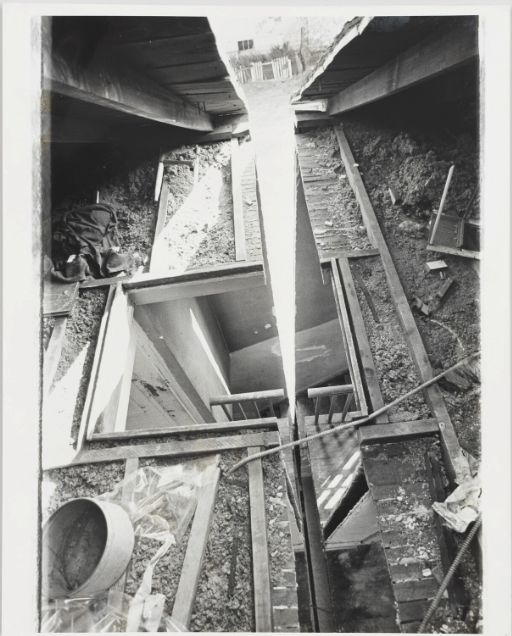
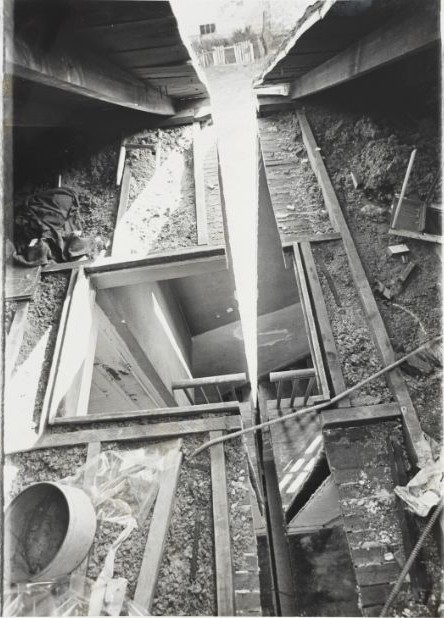
Second round of revisions
- 106 table: #25 off; Walls Paper and Flash Art at the back, Splitting in front, drawn as books with page blocks
- Wall labels at the right near the bottom corner, with the real text set small; one label per series
- 105-S: Laguna Niguel framed like its neighbours; 106-E prints cropped to the print, clusters closer
- 104: two compositions with one label each; 103-W: the two #64 photographs stacked
- #1 closer, in a thin frame; numbers off the pavilion, courtyard and table links; Harris plate in the plan corner

Claude-Session: https://claude.ai/code/session_01Gzv3RVgYn5MbEVnSCDgZo5

diff --git a/anarchitecture/index.html b/anarchitecture/index.html
@@ -79,6 +79,10 @@ main{min-height:100%;display:flex;align-items:center;justify-content:center;padd
 .el .mat{fill:#fff}
 .el .lbl{fill:#fff}
 .el .lbn{fill:var(--grey)}
+.el .lt{fill:#666;font-family:Arial,Helvetica,sans-serif;pointer-events:none}
+.el .lxa{fill:#222}
+.el .lxt{font-style:italic;fill:#333}
+.el .lxh{fill:#999}
 .el .bar{fill:var(--grey)}
 .el .lab{fill:none;stroke:var(--grey);stroke-width:.75px;vector-effect:non-scaling-stroke}
 .el .glass{fill:rgba(150,200,190,.22);stroke:var(--black);stroke-width:1px;vector-effect:non-scaling-stroke}
@@ -137,7 +141,7 @@ body.open .corner{display:none}
         <rect class="z" x="872" y="625" width="14" height="6"/>
         <!-- 103: Flash Art case by the opening from 104; Harris sculptures off the west wall; Girouard textile (proposal) -->
         <rect class="z" x="538" y="726" width="27" height="10"/>
-        <path class="z" d="M305 755 V800 H323 Z"/>
+        <path class="z" d="M305 726 V771 L323 726 Z"/>
         <path class="z" d="M305 842 H323 M305 862 H323"/>
         <rect class="z d" x="495" y="915" width="54" height="45"/>
         <!-- 102: the passage, on the diagonal, with the route from 103 to reception kept clear on the east -->
@@ -168,14 +172,14 @@ body.open .corner{display:none}
      no picture gives the proportion). Pictures live in img/<number>.jpg.
      views = what the object view offers, in order.
    ===================================================================== */
-const IMG={"1":[1600,1271],"10":[788,636],"11":[512,636],"12":[512,636],"13":[792,642],"15":[1406,1050],"16":[1024,907],"17":[792,640],"18":[796,646],"19":[512,636],"2":[922,1024],"20":[516,642],"21":[1411,1168],"22":[1007,862],"23":[656,469],"24":[1500,1000],"26":[1600,532],"27":[1600,1294],"28":[843,685],"29":[1600,1288],"3":[927,1024],"30":[843,685],"31":[1090,1040],"32":[1600,1280],"33":[1008,806],"34":[1600,1280],"35":[1600,1297],"36":[755,470],"37":[1600,1076],"38":[1600,992],"39":[728,419],"4":[484,640],"40":[238,222],"43":[1600,1077],"44":[1335,1080],"45":[1600,1040],"46":[899,1080],"47":[929,1080],"48":[917,1080],"49":[954,1080],"5":[790,636],"50":[1060,1080],"51":[985,1080],"52":[951,1080],"53":[921,1080],"54":[970,1080],"55":[1600,976],"56":[1600,617],"57":[1600,1512],"58":[1080,850],"59":[1496,1166],"6":[876,636],"60":[1600,1066],"61":[1600,1066],"62":[843,1195],"63":[1600,1240],"64-2":[1500,1105],"64":[1500,1154],"65":[1600,1275],"7":[510,636],"8":[786,642],"9":[834,638]};
+const IMG={"1":[1600,1271],"10":[748,615],"11":[444,618],"12":[339,490],"13":[781,642],"15":[1406,1050],"16":[1024,907],"17":[792,640],"18":[796,646],"19":[512,636],"2":[922,1024],"20":[516,642],"21":[1411,1168],"22":[1007,862],"23":[656,469],"24":[1500,1000],"26":[1600,532],"27":[1600,1294],"28":[843,685],"29":[1600,1288],"3":[927,1024],"30":[843,685],"31":[1090,1040],"32":[1600,1280],"33":[1008,806],"34":[1600,1280],"35":[1600,1297],"36":[755,470],"37":[1457,931],"38":[1600,992],"39":[728,419],"4":[449,613],"40":[238,222],"43":[1600,1077],"44":[1335,1080],"45":[1600,1040],"46":[899,1080],"47":[929,1080],"48":[917,1080],"49":[954,1080],"5":[759,616],"50":[1060,1080],"51":[985,1080],"52":[951,1080],"53":[921,1080],"54":[970,1080],"55":[1600,976],"56":[1600,617],"57":[1600,1512],"58":[1080,850],"59":[1496,1166],"6":[853,614],"60":[1600,1066],"61":[1600,1066],"62":[843,1195],"63":[1600,1240],"64-2":[1500,1105],"64":[1500,1154],"65":[1600,1275],"7":[426,619],"8":[786,571],"9":[733,613]};
 const GMC="Gordon Matta-Clark",DIV="John Divola",BAL="Lewis Baltz",ABL="Adrian Blackwell",HAM="David Hammons",ASH="Michael Asher",HAR="Suzanne Harris",HOG="Martin Hogue";
 const BENTON="Benton Museum of Art at Pomona College";
 const SPL=n=>({a:GMC,t:"Splitting"+(n?" "+n:""),d:"1974",m:"Documentation of the action “Splitting,” New Jersey, 1974",s:"10 × 8 1/8 in. (25.4 × 20.7 cm)",L:10,F:[17,14]});
 const DAY=n=>({a:GMC,t:"Day’s End, Pier 52."+n,d:"1975, printed 1977",m:"Gelatin silver print. Documentation of the action “Day’s End,” New York, 1975",s:n===2?"Sheet 10 × 8 in. (25.4 × 20.3 cm)":"Sheet 8 × 10 in. (20.3 × 25.4 cm)",L:10,F:[17,14]});
 const EV=(i,name)=>({a:ABL,t:`${name} Space (#${i} from Evicted May 1, 2000 [9 Hanna Ave.])`,d:"2001",s:"60 × 75 cm",L:29.5,F:[35,30]});
 const C={
-  1:{a:GMC,t:"Note Card",d:"c. 1973–74",L:6,F:[12,10],views:[{cap:"The card, at reading scale"}]},
+  1:{a:GMC,t:"Note Card",d:"c. 1973–74",L:6,F:[12,10],frame:"thin",views:[{cap:"The card, at reading scale"}]},
   2:{a:GMC,t:"North West",d:"1975",m:"Cibachrome print mounted on board",s:"17 × 15 1/2 in. (43.2 × 39.4 cm)",note:"Signed, titled and dated on the reverse",L:17,F:[22,20.5]},
   3:{a:GMC,t:"South East",d:"1975",m:"Cibachrome print mounted on board",s:"17 × 15 1/2 in. (43.2 × 39.4 cm)",note:"Signed and titled on the reverse",L:17,F:[22,20.5]},
   4:SPL(""),5:SPL(1),6:SPL(2),7:SPL(3),8:SPL(4),9:SPL(5),10:SPL(6),11:SPL(7),12:SPL(8),13:SPL(9),
@@ -188,7 +192,6 @@ const C={
   22:{a:GMC,t:"Sliced Brick Building",d:"1977",s:"7 × 9 in.; 12 1/2 × 14 3/4 in. framed",L:9,F:[14.75,12.5],views:[{cap:"With the sheet edges"}]},
   23:{a:GMC,t:"Walls Paper",d:"1973",m:"Artist’s book, offset lithograph on paper",s:"10 1/4 × 8 × 3/8 in.",note:"Handling copy, open",L:14},
   24:{a:"Anarchitecture group",t:"Flash Art, the 1974 exhibition",d:"1974",m:"Magazine",note:"Handling copy, on a sloped rest, open to the group spread",L:15},
-  25:{a:"Liza Béar",t:"Gordon Matta-Clark: Splitting the Humphrey Street Building",d:"1974",m:"Interview, Avalanche no. 10, December 1974, pp. 34–37. Reading reproduction",note:"Handling copy, open flat",W:15,H:9.7},
   26:{a:GMC,t:"Splitting",m:"Artist’s book",s:"17.8 × 28.2 cm",note:"Handling copy, open to an interior spread",L:14},
   27:{a:DIV,t:"Zuma #3",d:"1977; published 1982",s:"14 7/16 × 17 7/8 in. (36.7 × 45.4 cm)",F:[24,20],L:17.875},
   28:{a:DIV,t:"Zuma #8",d:"1977; printed 1977",s:"9 3/4 × 12 1/16 in. (24.7 × 30.6 cm)",F:[20,16],L:12.06},
@@ -200,7 +203,7 @@ const C={
   34:{a:DIV,t:"Zuma #74",d:"1977; printed 1978/79",s:"9 11/16 × 12 in. (24.6 × 30.5 cm)",F:[20,16],L:12},
   35:{a:DIV,t:"Zuma #14",d:"1977; printed 1978/79",s:"14 7/16 × 17 7/8 in. (36.7 × 45.4 cm)",note:"Date from research, to confirm",F:[24,20],L:17.875},
   36:{a:BAL,t:"Greenbrae 1968",d:"1968",m:"Gelatin silver print",s:"5 1/2 × 8 3/8 in. (13.9 × 21.2 cm)",cr:BENTON,note:"To confirm against Benton records",L:8.375,F:[14,11]},
-  37:{a:BAL,t:"Laguna Niguel 1970",d:"1970",s:"5 13/16 × 21 11/16 in. (14.7 × 55.1 cm)",cr:BENTON,note:"To confirm against Benton records",W:21.6875,H:5.8125,F:[28,12]},
+  37:{a:BAL,t:"Laguna Niguel 1970",d:"1970",s:"5 13/16 × 21 11/16 in. (14.7 × 55.1 cm)",cr:BENTON,note:"The checklist size does not match this picture, which is a standard print. To confirm against Benton records",L:8.5,F:[14,11]},
   38:{a:BAL,t:"Irvine Ranch 1968",d:"1968",s:"5 1/4 × 8 9/16 in. (13.3 × 21.7 cm)",cr:BENTON,note:"To confirm against Benton records",L:8.5625,F:[14,11]},
   39:{a:BAL,t:"Laguna Beach 1968",d:"1968",cr:BENTON,note:"To confirm against Benton records",L:8.5,F:[14,11]},
   40:{a:GMC,t:"Reality Properties: Fake Estates, Little Alley Block 2497, Lot 42",L:56,F:[64,60],views:[{cap:"The complete work"},{cap:"Details",ph:1}]},
@@ -220,7 +223,8 @@ const C={
   61:{a:HAM,t:"Day’s End",d:"2014–21",m:"Photograph",note:"The sculpture: 52 × 325 × 65 ft. (15.9 × 99 × 20 m)",L:30,F:[36,26]},
   62:{fr:"none",a:HAR,t:"Untitled",d:"1976",m:"Two right triangles, glass",s:"Each 72 × 24 × 1/2 in. (182.9 × 61 × 1.3 cm)",note:"Its own zone, out into the room",W:60,H:72},
   63:{fr:"none",a:HAR,t:"Untitled",d:"1975",s:"60 × 24 × 54 in.; 5 × 2 ft right triangle",note:"Its own zone, out into the room",W:60,H:24},
-  64:{a:"Mimmo Capone",t:"Photograph of Suzanne Harris, Between Force & Form",d:"1978",L:20,F:[26,22],views:[{img:"64"},{img:"64-2"}]},
+  64:{a:"Mimmo Capone",t:"Photograph of Suzanne Harris, Between Force & Form",d:"1978",L:20,F:[26,22]},
+  "64b":{a:"Mimmo Capone",t:"Photograph of Suzanne Harris, Between Force & Form",d:"1978",img:"64-2",L:20,F:[26,22]},
   65:{a:"Richard Wilson",t:"20:50",d:"1987",m:"Photograph of the installation",L:40},
   66:{a:"Rirkrit Tiravanija",t:"Untitled (free/still)",d:"1992/1995/2007/2011–",m:"Refrigerator, table, chairs, wood, drywall, food and other materials",s:"Dimensions variable",cr:"MoMA PS1",W:40,H:28},
   67:{a:GMC,t:"Splitting",d:"1974",m:"Super 8mm film on HD video, black and white and color, silent, 10:50",video:"video/67.mp4",W:32,H:18,views:[{cap:"Film"}]},
@@ -241,6 +245,8 @@ const C={
   "i-vis":{intro:1,t:"Introductory visual",note:"To be selected",W:66,H:50},
   "i-text":{intro:1,fr:"none",t:"Introduction",note:"Text to come",W:40,H:54}
 };
+/* the Splitting prints are shown cropped to the print; the longest side, in inches, measured against the 10 in. sheet */
+Object.entries({4:9.58,5:9.61,6:9.74,7:9.73,8:10,9:8.79,10:9.49,11:9.72,12:7.7,13:9.86}).forEach(([k,l])=>C[k].L=l);
 for(const k in C)C[k].k=k;
 
 /* size in inches, drawn to scale: the longest side from the checklist, the proportion from the picture */
@@ -251,12 +257,12 @@ function osz(k){const c=C[k],[w,h]=sz(k);if(c.fr==="none")return [w,h];
   if(c.F){const a=Math.max(...c.F),b=Math.min(...c.F);return w>=h?[a,b]:[b,a];}
   const m=Math.min(4,Math.max(2,.2*Math.max(w,h)))+1;return [w+2*m,h+2*m];}
 const pic=k=>{const c=C[k]||{},key=c.img||k;return IMG[key]?`img/${key}.jpg`:null;};
-const num=k=>C[k].prop?"Proposal":C[k].intro?"":k==="24b"?"24, second copy":String(k);
+const num=k=>C[k].prop?"Proposal":C[k].intro?"":k==="24b"?"24, second copy":k==="64b"?"64":String(k);
 
 /* layout helpers. Every item: k, x = inches from the left end of the wall, b = height of its
    bottom above the floor, w and h. Left and right are for someone facing the wall. */
 function at(k,cx,cy,o={}){const [w,h]=osz(k);return {k,x:cx-w/2,b:cy-h/2,w,h,...o};}
-function row(keys,{x0,gap,cy,base,cap,nolab,grp}){let x=x0;return keys.map(k=>{const [w,h]=osz(k);const it={k,x,w,h,b:base!=null?base:cy-h/2,cap,nolab,grp};x+=w+gap;return it;});}
+function row(keys,{x0,gap,cy,base,grp}){let x=x0;return keys.map(k=>{const [w,h]=osz(k);const it={k,x,w,h,b:base!=null?base:cy-h/2,grp};x+=w+gap;return it;});}
 const rowW=(keys,gap)=>keys.reduce((a,k)=>a+osz(k)[0],0)+gap*(keys.length-1);
 let GRP=0;
 function grid(rows,{cx,x0,right,cy,gap}){const grp="g"+(++GRP);
@@ -269,18 +275,18 @@ function grid(rows,{cx,x0,right,cy,gap}){const grp="g"+(++GRP);
 const LAB=(x,b,o={})=>({lab:1,x,b,w:o.w||5,h:o.h||3.5});
 
 /* ---------- the walls ---------- */
-function L106E(){ // 38'8": the ten Splitting photographs nearest the entrance (right), then 3 ft, then the pair
+function L106E(){ // 38'8": the ten Splitting photographs nearest the entrance (right), then 16 in., then the pair
   const g=grid([[4,5,6,7,8],[9,10,11,12,13]],{right:416,cy:60,gap:3});
-  const pairR=g.box.x-36,[w3]=osz(3),[w2]=osz(2);
-  return [at(2,pairR-w3-6-w2/2,60,{cap:"below"}),at(3,pairR-w3/2,60,{cap:"below"}),...g];}
-function L106W(){ // 28'7": left to right, wider intervals, then the two Sliced Brick Building prints 4 in. apart
+  const pairR=g.box.x-16,[w3]=osz(3),[w2]=osz(2),grp="g"+(++GRP);
+  return [at(2,pairR-w3-6-w2/2,60,{grp}),at(3,pairR-w3/2,60,{grp}),...g];}
+function L106W(){ // 28'7": left to right, wider intervals, then the two Sliced Brick Building prints 4 in. apart, one label
   const ks=[14,16,20,21,22],used=ks.reduce((a,k)=>a+osz(k)[0],0)+4,g=(343-used)/5;
-  let x=g;return ks.map((k,i)=>{const [w,h]=osz(k),it={k,x,w,h,b:60-h/2,nolab:k===21};x+=w+(i===3?4:g);return it;});}
-function L106N(){ // one row, one baseline, one date line for the group
-  const ks=[17,19,18],W=rowW(ks,8),x0=(188-W)/2;return row(ks,{x0,gap:8,base:50,nolab:true,grp:"dayend"});}
-function L105W(){ // 3 x 3, centred; columns and rows set by the largest frame in each; label level with the middle row
-  const g=grid([[28,32,33],[27,30,29],[35,34,31]],{cx:139,cy:60,gap:6});return g;}
-function L105S(){const ks=[36,37,38,39];return row(ks,{x0:(189-rowW(ks,7.5))/2,gap:7.5,cy:60,cap:"below"});}
+  let x=g;return ks.map((k,i)=>{const [w,h]=osz(k),it={k,x,w,h,b:60-h/2,grp:k===21||k===22?"brick":undefined};x+=w+(i===3?4:g);return it;});}
+function L106N(){ // one row, one baseline, one label
+  const ks=[17,19,18],W=rowW(ks,8),x0=(188-W)/2;return row(ks,{x0,gap:8,base:50,grp:"dayend"});}
+function L105W(){ // 3 x 3, centred; columns and rows set by the largest frame in each
+  return grid([[28,32,33],[27,30,29],[35,34,31]],{cx:139,cy:60,gap:6});}
+function L105S(){const ks=[36,37,38,39];return row(ks,{x0:(189-rowW(ks,6))/2,gap:6,cy:60,grp:"baltz"});}
 function L105N(){ // the property wall, 26 ft, from the west end
   return [{k:42,kind:"monitor",x:15,b:52,w:30,h:18},
     {k:40,...(()=>{const [w,h]=osz(40);return {x:90-w/2,b:60-h/2,w,h};})()},
@@ -290,17 +296,20 @@ function L105N(){ // the property wall, 26 ft, from the west end
 function L105E(){ // the nine upright views (#4 to #12) as one band; #1 to #3 above its left end, #13 above its right
   const grp="g"+(++GRP),gap=4,vg=9,band=[46,47,48,49,50,51,52,53,54];
   const bH=Math.max(...band.map(k=>osz(k)[1])),cH=osz(43)[1],bandCy=60-(cH+vg)/2,capB=bandCy+bH/2+vg;
-  const B=row(band,{x0:189-rowW(band,gap)/2,gap,cy:bandCy,nolab:true,grp}),end=B[B.length-1];
-  const L=row([43,44,45],{x0:B[0].x,gap,base:capB,nolab:true,grp}),[w13,h13]=osz(55);
-  return [...L,{k:55,x:end.x+end.w-w13,b:capB,w:w13,h:h13,nolab:true,grp},...B];}
-function L104(){ // 30'4", read east to west: left to right facing south
-  const W=k=>osz(k)[0],sw=W(60),used=W(56)+W(57)+W(58)+W(59)+sw,g=(364-used)/6;let x=g;const out=[];
-  [56,57,58,59].forEach(k=>{out.push(at(k,x+W(k)/2,60));x+=W(k)+g;});
-  const gap=4,[,h60]=osz(60),[,h61]=osz(61),top=60+(h60+h61+gap)/2; // the stack, centred on the drawing
-  out.push({...at(61,x+sw/2,top-h61/2),lb:top-h61},{...at(60,x+sw/2,top-h61-gap-h60/2)});
+  const B=row(band,{x0:189-rowW(band,gap)/2,gap,cy:bandCy,grp}),end=B[B.length-1];
+  const L=row([43,44,45],{x0:B[0].x,gap,base:capB,grp}),[w13,h13]=osz(55);
+  return [...L,{k:55,x:end.x+end.w-w13,b:capB,w:w13,h:h13,grp},...B];}
+function L104(){ // 30'4", read east to west: left to right facing south. Three pieces: Matta-Clark; Asher's drawing
+  // beside its photograph; Hammons's drawing beside its two photographs, stacked and centred on it
+  const W=k=>osz(k)[0],pg=4,sw=W(60),units=[W(56),W(57)+pg+W(58),W(59)+pg+sw],g=(364-units.reduce((a,b)=>a+b,0))/4;
+  let x=g;const out=[at(56,x+W(56)/2,60)];x+=units[0]+g;
+  out.push(at(57,x+W(57)/2,60,{grp:"asher"}),at(58,x+W(57)+pg+W(58)/2,60,{grp:"asher"}));x+=units[1]+g;
+  out.push(at(59,x+W(59)/2,60,{grp:"hammons",go:0}));x+=W(59)+pg;
+  const [,h60]=osz(60),[,h61]=osz(61),top=60+(h60+h61+pg)/2;
+  out.push(at(61,x+sw/2,top-h61/2,{grp:"hammons",go:1}),at(60,x+sw/2,top-h61-pg-h60/2,{grp:"hammons",go:2,gh:"Left to right; the photographs top to bottom"}));
   return out;}
 const L103N=()=>[{k:"24b",kind:"case",x:300,b:0,w:36,h:38}];
-const L103W=()=>[at(64,100,60),{k:62,kind:"tri2",x:250,b:26,w:40,h:72},{k:63,kind:"plate",x:458-60,b:46,w:60,h:12}];
+const L103W=()=>{const [,h]=osz(64),[,h2]=osz("64b"),gap=6;return [at(64,100,60+(h2+gap)/2),at("64b",100,60-(h+gap)/2),{k:62,kind:"tri2",x:250,b:26,w:40,h:72},{k:63,kind:"plate",x:458-60,b:46,w:60,h:12}];};
 const L103E=()=>[{k:"p-notebook",kind:"case",x:40,b:0,w:30,h:38},{k:"p-anderson",kind:"imgtext",x:100,b:52,w:34,h:16},
   {k:"p-swept",x:170,b:50,w:16,h:20},{k:"p-contact",kind:"sheets",x:228,b:56,w:36,h:8}];
 /* 28'6": the title in the left third, the visual in the middle, the introduction on the right */
@@ -311,7 +320,7 @@ const LINTRO=()=>[{k:"i-title",kind:"title",x:14,b:58,w:60,h:13},{...at("i-vis",
    Wall markers sit 22 units in front of the middle of the wall face, measured from the drawing. */
 const VIEWS=[
   {id:"intro",label:"Lobby, introduction wall",at:[973.5,1536.4],len:342,h:144,items:LINTRO},
-  {id:"106-S",label:"106, south wall",at:[736.6,1266.5],len:188,h:180,items:()=>[{...at(1,21,60),cap:"right"}]},
+  {id:"106-S",label:"106, south wall",at:[736.6,1266.5],len:188,h:180,min:[38,22],from:-4,items:()=>[at(1,21,60)]},
   {id:"106-E",label:"106, east wall",at:[878.3,1114.5],len:464,h:180,items:L106E},
   {id:"106-W",label:"106, west wall",at:[688,1159.8],len:343,h:180,items:L106W},
   {id:"106-N",label:"106, north wall",at:[736.8,962.5],len:188,h:180,items:L106N},
@@ -334,7 +343,7 @@ const VIEWS=[
 ];
 /* where each work lives, for the way back from its object view */
 const HOME={};VIEWS.forEach(v=>{if(v.items)v.items().forEach(i=>{if(i.k!=null&&!(String(i.k) in HOME))HOME[i.k]=v.id;});if(v.go)HOME[v.go]=HOME[v.go]||null;if(v.options)v.options.forEach(k=>HOME[k]=v.id);});
-[23,24,25,26].forEach(k=>HOME[k]="106-T");HOME[15]="106-F";HOME["41c"]="105-F";HOME["p-girouard"]="103-C";HOME[67]=HOME[68]="pavilion";HOME["p-blackwell"]=HOME["p-dundas"]=HOME["p-model"]="patio";
+[23,24,26].forEach(k=>HOME[k]="106-T");HOME[15]="106-F";HOME["41c"]="105-F";HOME["p-girouard"]="103-C";HOME[67]=HOME[68]="pavilion";HOME["p-blackwell"]=HOME["p-dundas"]=HOME["p-model"]="patio";
 /* ===================================================================== */
 const NS="http://www.w3.org/2000/svg";
 const el=(t,a={},p)=>{const e=document.createElementNS(NS,t);for(const k in a)e.setAttribute(k,a[k]);p&&p.appendChild(e);return e;};
@@ -382,59 +391,66 @@ function drawItem(it,g,H){
       el("path",{d:`M${x+w} ${y+h} L${x+w} ${H-40} M${x+w} ${y+h} L${x+w-20} ${H-40}`,class:"shade"},g);break;}
     case "imgtext":placeholder(g,x,y,20,h);for(let i=0;i<8;i++)el("rect",{x:x+24,y:y+i*2,width:i===7?6:10,height:.8,class:"bar"},g);break;
     case "sheets":for(let i=0;i<3;i++)placeholder(g,x+i*13,y,10,h);break;
-    default:if(C[k].fr!=="none"){const M=.9;el("rect",{x,y,width:w,height:h,class:"frm",filter:"url(#shF)"},g);
+    default:if(C[k].fr!=="none"){const M=C[k].frame==="thin"?.16:.9;el("rect",{x,y,width:w,height:h,class:"frm",filter:C[k].frame==="thin"?"url(#shT)":"url(#shF)"},g);
         el("rect",{x:x+M,y:y+M,width:w-2*M,height:h-2*M,class:"mat"},g);
         const [iw0,ih0]=sz(k),s=Math.min(1,(w-2*M-.5)/iw0,(h-2*M-.5)/ih0),iw=iw0*s,ih=ih0*s,ix=x+(w-iw)/2,iy=y+(h-ih)/2;
         src?el("image",{href:src,x:ix,y:iy,width:iw,height:ih,preserveAspectRatio:"xMidYMid meet"},g):placeholder(g,ix,iy,iw,ih);}
       else src?el("image",{href:src,x,y,width:w,height:h,preserveAspectRatio:"xMidYMid meet",filter:kind?null:"url(#shF)"},g):placeholder(g,x,y,w,h);
   }
 }
-/* where a work's wall label goes: to its right, low, or below it. Groups get one label (lab items). */
-function labelOf(it){const k=it.k,c=C[k];if(it.lab||it.nolab||!c||c.intro||it.kind==="tri2"||it.kind==="plate")return null;
-  return it.cap==="below"?{x:it.x+it.w/2-2.5,b:it.b-6.5,w:5,h:3.5}:{x:it.x+it.w+3.5,b:it.lb!=null?it.lb:Math.min(it.b,52),w:5,h:3.5};}
-/* a group of three or more works has one label at its bottom right, its numbers laid out like the works */
-const glabOf=g=>({x:g.x1-5,b:g.b-3-3.5,w:5,h:3.5});
+/* wall labels: a small card at the right of the work, a little above its bottom corner. A series or composition
+   (items sharing grp) has one card at the right of the whole group, its works listed left to right. The text is
+   set at about its real size, so on screen it reads as fine grey lines that come clear when the wall is close. */
+const LB={w:5,gw:6.4,fs:.3,lh:.42,pad:.45,gap:3,up:1.5};
+function wrapText(t,n){const out=[];let line="";String(t).split(/\s+/).forEach(w=>{if(!w)return;if(line&&(line+" "+w).length>n){out.push(line);line=w;}else line=line?line+" "+w:w;});if(line)out.push(line);return out;}
+function labelLines(ks,head){const cs=ks.map(k=>C[k]),L=[],same=f=>cs.every(c=>(c[f]||"")===(cs[0][f]||"")),add=(t,c="")=>{if(t)L.push([t,c]);};
+  if(ks.length===1){const c=cs[0];add(c.a,"a");add(c.t+(c.d?", "+c.d:""),"t");add(c.m);add(c.s);add(c.cr);if(c.prop)add("Proposal");return L;}
+  if(same("a"))add(cs[0].a,"a");add(head,"h");
+  cs.forEach(c=>{if(!same("a"))add(c.a,"a");add(c.t+(c.d&&!same("d")?", "+c.d:""),"t");if(!same("m"))add(c.m);if(!same("s"))add(c.s);});
+  if(same("d"))add(cs[0].d);if(same("m"))add(cs[0].m);if(same("s"))add(cs[0].s);if(same("cr"))add(cs[0].cr);return L;}
+function labelBox(ks,x,b,w,head){const n=Math.floor((w-2*LB.pad)/(LB.fs*.53)),lines=[];
+  labelLines(ks,head).forEach(([t,c])=>wrapText(t,n).forEach(l=>lines.push([l,c])));
+  return {x,b,w,h:2*LB.pad+lines.length*LB.lh,lines,ks};}
+function labelOf(it){const k=it.k,c=C[k];if(it.lab||it.grp||it.nolab||!c||c.intro||it.kind==="tri2"||it.kind==="plate")return null;
+  return labelBox([k],it.x+it.w+LB.gap,it.b+LB.up,LB.w);}
 function groupsOf(items){const G={};items.forEach(i=>{if(i.grp)(G[i.grp]=G[i.grp]||[]).push(i);});
-  return Object.values(G).filter(g=>g.length>2).map(ms=>{
-    const xs=[],ys=[],near=(a,v)=>{let i=a.findIndex(u=>Math.abs(u-v)<3);if(i<0){a.push(v);i=a.length-1;}return i;};
-    const cx=ms.map(i=>i.x+i.w/2),cy=ms.map(i=>i.b+i.h/2);[...new Set(cx)].sort((a,b)=>a-b).forEach(v=>near(xs,v));[...new Set(cy)].sort((a,b)=>b-a).forEach(v=>near(ys,v));
-    const cells=ms.map((i,n)=>({k:i.k,c:i.gc!=null?i.gc:near(xs,cx[n]),r:near(ys,cy[n])}));
+  return Object.values(G).map(ms=>{
+    const ys=[],near=(a,v)=>{let i=a.findIndex(u=>Math.abs(u-v)<3);if(i<0){a.push(v);i=a.length-1;}return i;};
+    const cy=ms.map(i=>i.b+i.h/2);[...new Set(cy)].sort((a,b)=>b-a).forEach(v=>near(ys,v));
+    const ord=ms.some(i=>i.go!=null)?[...ms].sort((a,b)=>a.go-b.go):[...ms].sort((a,b)=>near(ys,a.b+a.h/2)-near(ys,b.b+b.h/2)||a.x-b.x);
+    const head=(ms.find(i=>i.gh)||{}).gh||(ys.length>1&&!ms.some(i=>i.go!=null)?"Left to right, top to bottom":"Left to right");
     const x1=Math.max(...ms.map(i=>i.x+i.w)),b=Math.min(...ms.map(i=>i.b));
-    return {ms,cells,cols:ms.some(i=>i.gc!=null)?Math.max(...cells.map(c=>Math.ceil(c.c+.5))):xs.length,rows:ys.length,x1,b};});}
+    return {ms,lab:labelBox(ord.map(i=>i.k),x1+LB.gap,b+LB.up,LB.gw,head)};});}
 /* a wall seen straight on: inches, 0 at the left end, the floor at the bottom. The drawing is cut
    to the hang, with a little wall around it, so the works fill the page. */
 function drawWall(v){
-  const L=v.len,H=v.h,items=v.items(),labs=items.map(labelOf),groups=groupsOf(items),inG=new Set(groups.flatMap(g=>g.ms));
-  // the scale the drawing will show at, so a group label can be sized in screen terms
-  const availW=Math.min(1800,innerWidth-48),availH=Math.max(260,innerHeight-(innerWidth>640?270:150)),CW=24,CH=16,PAD=7;
-  let box=[...items,...labs.filter(Boolean)],ext,sc=4;
+  const L=v.len,H=v.h,items=v.items(),labs=items.map(labelOf),groups=groupsOf(items),[MW,MH]=v.min||[72,36];
+  const box=[...items,...labs.filter(Boolean),...groups.map(G=>G.lab),...(v.from!=null?[{x:v.from,b:items[0].b,w:0,h:0}]:[])];
   const extent=bx=>{const x0=Math.min(...bx.map(i=>i.x)),x1=Math.max(...bx.map(i=>i.x+i.w)),top=Math.max(...bx.map(i=>i.b+i.h)),bot=Math.min(...bx.map(i=>i.b));
     const m=Math.max(5,(x1-x0)*.03),floor=Math.min(...items.map(i=>i.b))<16;let vx=Math.max(-m*.5,x0-m),vw=Math.min(L+m*.5,x1+m)-vx,vy=H-top-m,vh=(floor?H+3:H-bot+m)-vy;
-    // never closer than a wall about 6 ft by 3.5 ft: a single small work is not blown up
-    if(vw<72){vx-=(72-vw)/2;vw=72;}if(vh<42){if(floor){vy-=42-vh;}else{vy-=(42-vh)/2;}vh=42;}
+    // never closer than a wall about 6 ft by 3 ft (or the view's own minimum): a single small work is not blown up
+    if(vw<MW){vx-=(MW-vw)/2;vw=MW;}if(vh<MH){if(floor){vy-=MH-vh;}else{vy-=(MH-vh)/2;}vh=MH;}
     return {vx,vw,vy,vh,floor};};
-  for(let it=0;it<3;it++){ext=extent([...box,...groups.map(glabOf)]);sc=Math.min(availW/ext.vw,availH/ext.vh);}
-  const {vx,vw,vy,vh,floor}=ext;
+  const {vx,vw,vy,vh,floor}=extent(box);
   const s=el("svg",{viewBox:`${vx} ${vy} ${vw} ${vh}`,role:"img","aria-label":v.label,class:"el"});
   const defs=el("defs",{},s);
   const sh=(id,dy,sd,op)=>{const f=el("filter",{id,x:"-30%",y:"-30%",width:"160%",height:"170%"},defs);el("feDropShadow",{dx:0,dy,stdDeviation:sd,"flood-color":"#000","flood-opacity":op},f);};
-  sh("shF",.45,.7,.22);sh("shL",.18,.28,.32);
+  sh("shF",.45,.7,.22);sh("shL",.18,.28,.32);sh("shT",.25,.4,.16);
   el("rect",{x:vx,y:vy,width:vw,height:vh,class:"bg"},s); // the wall itself: a click here leaves the work
   el("path",{d:`M0 ${floor?H:vy+vh} V${vy} M${L} ${floor?H:vy+vh} V${vy}`,class:"e-line"},s);
   if(floor)el("line",{x1:vx,y1:H,x2:vx+vw,y2:H,class:"e-floor"},s);
-  const card=(p,l,n)=>{el("rect",{x:l.x,y:H-l.b-l.h,width:l.w,height:l.h,class:"lbl",filter:"url(#shL)"},p);
-    if(n){const t=el("text",{x:l.x+l.w/2,y:H-l.b-l.h/2,class:"lbn","text-anchor":"middle","dominant-baseline":"central"},p);t.textContent=n;}};
-  items.filter(i=>i.lab).forEach(i=>card(s,i));
+  const card=(p,l)=>{const y0=H-l.b-l.h;el("rect",{x:l.x,y:y0,width:l.w,height:l.h,class:"lbl",filter:"url(#shL)"},p);
+    (l.lines||[]).forEach(([t,c],i)=>{const e=el("text",{x:l.x+LB.pad,y:y0+LB.pad+(i+.8)*LB.lh,class:"lt"+(c?" lx"+c:""),style:`font-size:${LB.fs}px`},p);e.textContent=t;});};
   const works=items.filter(i=>!i.lab);picks=works.map(i=>i.k);
   works.forEach((it,i)=>{
     const g=el("g",{class:"e-work",tabindex:"0",role:"button","aria-label":`${num(it.k)} ${C[it.k].a||""}, ${C[it.k].t}`},s);
     drawItem(it,g,H);
     el("rect",{x:it.x-1,y:H-it.b-it.h-1,width:it.w+2,height:it.h+2,class:"hit"},g);
-    const l=labelOf(it);if(l)card(g,l,"");
+    const l=labelOf(it);if(l)card(g,l);
     hook(g,i);
   });
-  // a group of works shares one blank label under its bottom right
-  groups.forEach(G=>card(s,glabOf(G)));
+  // a series or composition shares one label, at its right
+  groups.forEach(G=>card(el("g",{class:"glab"},s),G.lab));
   s.addEventListener("click",e=>{if(e.target.closest(".e-work,.glab"))return;leave();});
   fit=()=>fitText(s,vw,vh,10);
   return s;
@@ -518,30 +534,48 @@ function sceneKit(){
 }
 
 const SCENES={
-  /* 106: the handling table, seen from its long side. The four copies sit in a row, at their own size. */
+  /* 106: the handling table, seen from its long side (east). Walls Paper and Flash Art lie open at the back, evenly
+     spaced; the Splitting book, lower, sits in front in the middle. Each lies on an angled rest, larger than life
+     so it reads, and is drawn as a book: a cover board, a block of pages with its edges showing, the two halves of
+     the spread rising from the spine. */
   table(){const K=sceneKit(),TH=30,tx=WX(783),tz=WZ(1162.5),T=(x,y,z)=>[tx+x,y,tz+z];
     const bx=(x0,y0,z0,x1,y1,z1,o)=>K.box(tx+x0,y0,tz+z0,tx+x1,y1,tz+z1,o);
     bx(-18,TH-1.5,-42,18,TH,42,{L:1});
     [[-17,-41],[15,-41],[-17,39],[15,39]].forEach(([x,z])=>bx(x,0,z,x+2,TH-1.5,z+2,{L:0,open:1}));
-    // seen from the east. Every copy lies open on its own angled rest, larger than life so it reads:
-    // the top of each picture is at the high, far edge (west), its left edge to the south.
-    const ks=[23,24,25,26];
-    ks.forEach((k,i)=>{const [w0,h0]=sz(k),f=Math.min(19/w0,24/h0),w=w0*f,h=h0*f,cz=31.5-i*21,src=pic(k);
-      const a=24*Math.PI/180,d=h*Math.cos(a),r=h*Math.sin(a),y=TH+1.6,x0=-d/2+2,lip=1.4,R="#f4f4f4";
-      const P=(x,yy,z)=>T(x,yy,cz+z),hw=w/2+.8;
-      // the rest: a wedge on the table, with a lip along its low edge to hold the copy
-      const fw=P(x0-d/2,y+r,hw),fm=P(x0-d/2,y+r,-hw),m=P(x0+d/2,y,-hw),n=P(x0+d/2,y,hw);
-      const bw=P(x0-d/2,TH,hw),bm=P(x0-d/2,TH,-hw),nb=P(x0+d/2,TH,hw),mb=P(x0+d/2,TH,-hw);
-      K.face([bw,bm,fm,fw],{L:2,k,f:R});K.face([nb,bw,fw,n],{L:2,k,f:R});K.face([mb,bm,fm,m],{L:2,k,f:R});K.face([nb,mb,m,n],{L:2,k,f:R});
-      K.face([fw,fm,m,n],{L:2,k,f:R});
-      const l0=P(x0+d/2,y,hw),l1=P(x0+d/2,y,-hw),l2=P(x0+d/2+lip,y,-hw),l3=P(x0+d/2+lip,y,hw),up=q=>[q[0],q[1]+1.6,q[2]];
-      // the copy, a little proud of the slope
-      const e=.25,lift=(x,yy)=>[x-e*Math.sin(a),yy+e*Math.cos(a)];
-      const [ax,ay]=lift(x0-d/2+.6*Math.cos(a),y+r-.6*Math.sin(a)),[bx2,by]=lift(x0+d/2-.2,y+.2*Math.tan(a));
-      K.face([P(ax,ay,w/2),P(ax,ay,-w/2),P(bx2,by,-w/2),P(bx2,by,w/2)],{L:3,k,img:src&&{src},f:"#fff"});
-      K.face([l0,l1,up(l1),up(l0)],{L:4,k,f:R});K.face([l0,l1,l2,l3].map(up),{L:4,k,f:R});K.face([l3,l2,up(l2),up(l3)],{L:4,k,f:R});
+    const R="#f4f4f4",PG="#fbfbfb";
+    // k, the part of the picture that is the spread (fractions), where the rest's high edge sits, centre along the table, spread height, angle
+    const BOOKS=[[23,[.189,.141,.819,.851],-17,21,18,28],[24,[.075,.059,.922,.935],-17,-21,18,28],[26,[0,0,1,1],5.2,0,10,20]];
+    BOOKS.forEach(([k,cr,xh,cz,h,deg])=>{const im=IMG[C[k].img||k],asp=im?im[0]*(cr[2]-cr[0])/(im[1]*(cr[3]-cr[1])):1.5,w=h*asp,src=pic(k);
+      const a=deg*Math.PI/180,ca=Math.cos(a),sa=Math.sin(a),base=1,s0=-.7,s1=h+1,ox=xh+s1*ca,oy=TH+base-s0*sa;
+      // a point on the rest: s up the slope from the book's low edge, u across (+ to the south, the reader's left), n off the slope
+      const Q=(s,u,n=0)=>T(ox-s*ca+n*sa,oy+s*sa+n*ca,cz+u),hw=w/2+1.2;
+      // the rest: a wedge on the table
+      const lt=u=>Q(s0,u),ht=u=>Q(s1,u),lb=u=>{const q=Q(s0,u);return [q[0],TH,q[2]];},hb=u=>{const q=Q(s1,u);return [q[0],TH,q[2]];};
+      K.face([ht(hw),ht(-hw),lt(-hw),lt(hw)],{L:2,k,f:R});
+      K.face([lb(hw),hb(hw),ht(hw),lt(hw)],{L:2,k,f:R});K.face([lb(-hw),hb(-hw),ht(-hw),lt(-hw)],{L:2,k,f:R});
+      K.face([lb(hw),lb(-hw),lt(-hw),lt(hw)],{L:2,k,f:R});K.face([hb(hw),hb(-hw),ht(-hw),ht(hw)],{L:2,k,f:R});
+      // the cover board
+      const cb=.15,cu=w/2+.35,c0=.25,c1=h+.65;
+      K.face([Q(c1,cu,cb),Q(c1,-cu,cb),Q(c0,-cu,cb),Q(c0,cu,cb)],{L:3,k,f:"#d9d9d9"});
+      K.face([Q(c0,cu,0),Q(c0,-cu,0),Q(c0,-cu,cb),Q(c0,cu,cb)],{L:3,k,f:"#bdbdbd"});
+      // the pages: thicker at the outer edges, rising to a shoulder, dipping into the spine
+      const sb=.45,st=sb+h,TK=1.1,U=[0,.12,.5,.88,1],N=[cb+TK,cb+TK+.45,cb+.14,cb+TK+.45,cb+TK],uu=f=>(.5-f)*w;
+      const prof=s=>U.map((f,i)=>Q(s,uu(f),N[i])),flat=s=>[Q(s,uu(1),cb),Q(s,uu(0),cb)];
+      const lines=s=>{const L=[];[.3,.55,.8].forEach(t=>{for(let i=0;i<U.length-1;i++)L.push(Q(s,uu(U[i]),cb+t*(N[i]-cb)),Q(s,uu(U[i+1]),cb+t*(N[i+1]-cb)));});return L;};
+      [sb,st].forEach(s=>K.face([...flat(s),...prof(s).reverse()],{L:3,k,f:PG,det:lines(s),da:.35}));
+      [0,1].forEach(f=>{const u=uu(f),n=N[f?4:0],det=[];[.3,.55,.8].forEach(t=>det.push(Q(sb,u,cb+t*(n-cb)),Q(st,u,cb+t*(n-cb))));
+        K.face([Q(sb,u,cb),Q(st,u,cb),Q(st,u,n),Q(sb,u,n)],{L:3,k,f:PG,det,da:.35});});
+      for(let i=0;i<U.length-1;i++){const f0=U[i],f1=U[i+1],cx=t=>cr[0]+(cr[2]-cr[0])*t;
+        K.face([Q(st,uu(f0),N[i]),Q(st,uu(f1),N[i+1]),Q(sb,uu(f1),N[i+1]),Q(sb,uu(f0),N[i])],
+          {L:4,k,f:"#fff",img:src&&{src,crop:[cx(f0),cr[1],cx(f1),cr[3]]},a:.22,det:i===1?[Q(sb,uu(.5),N[2]),Q(st,uu(.5),N[2])]:null,da:.6});}
+      // a little shadow either side of the spine
+      [[.38,.5],[.5,.62]].forEach(([f0,f1])=>{const n=f=>{const j=U.findIndex((x,i)=>f>=x&&f<=U[i+1]);const t=(f-U[j])/(U[j+1]-U[j]);return N[j]+(N[j+1]-N[j])*t+.01;};
+        K.face([Q(st,uu(f0),n(f0)),Q(st,uu(f1),n(f1)),Q(sb,uu(f1),n(f1)),Q(sb,uu(f0),n(f0))],{L:5,f:"rgba(0,0,0,.09)",a:0});});
+      // the lip that holds the book
+      const l0=-.6,l1=.25,lh=.36;
+      K.face([Q(l0,hw,0),Q(l0,-hw,0),Q(l0,-hw,lh),Q(l0,hw,lh)],{L:6,k,f:R});K.face([Q(l0,hw,lh),Q(l0,-hw,lh),Q(l1,-hw,lh),Q(l1,hw,lh)],{L:6,k,f:R});
     });
-    return {K,T:[tx,TH+4,tz],R:46,yaw:Math.PI/2,pitch:.95,sway:.22,pmin:.04,pmax:1.45,intro:{pitch:.05,dist:2.1,ms:2600},keys:ks};},
+    return {K,T:[tx,TH+4,tz],R:46,yaw:Math.PI/2,pitch:.78,sway:.22,pmin:.04,pmax:1.45,intro:{pitch:.05,dist:2.1,ms:2600},keys:[23,24,26]};},
 
   /* 106: Splitting: Four Corners, the four roof corners of the house on the floor, outside corners out */
   corners(){const K=sceneKit(),fx=WX(765),fz=WZ(1020);
@@ -594,7 +628,7 @@ function drawScene(v){
   const wrap=document.createElement("div");wrap.className="room3d scene";
   const cv=document.createElement("canvas");cv.setAttribute("role","img");cv.setAttribute("aria-label",v.label+", drawn in perspective");
   const ctl=document.createElement("div");ctl.className="ctl";
-  ctl.innerHTML=S.keys.map(k=>`<a href="#o-${esc(k)}">${esc(num(k)==="Proposal"?C[k].a:num(k))} ${esc(C[k].t)}</a>`).join("");
+  ctl.innerHTML=S.keys.map(k=>`<a href="#o-${esc(k)}">${C[k].prop?esc(C[k].a)+", ":""}${esc(C[k].t)}</a>`).join("");
   wrap.append(cv,ctl);
   const g=cv.getContext("2d"),dpr=Math.min(2,window.devicePixelRatio||1);let W=0,H=0;
   const size=()=>{const r=cv.getBoundingClientRect();W=r.width;H=r.height;cv.width=W*dpr;cv.height=H*dpr;};
@@ -624,10 +658,10 @@ function drawScene(v){
       c=(u0*(x2-x1)-u1*x2+u2*x1+(u1-u2)*x0)/den,dd=-(u1*y2+u0*(y1-y2)-u2*y1+(u2-u1)*y0)/den,
       e=(u0*(v2*x1-v1*x2)+v0*(u1*x2-u2*x1)+(u2*v1-u1*v2)*x0)/den,f=(u0*(v2*y1-v1*y2)+v0*(u1*y2-u2*y1)+(u2*v1-u1*v2)*y0)/den;
     g.transform(a,b,c,dd,e,f);g.drawImage(img,0,0,iw,ih);g.restore();}
-  function picture(F,im){const N=3,[p0,p1,p2,p3]=F.p,iw=im.naturalWidth,ih=im.naturalHeight;
+  function picture(F,im){const N=3,[p0,p1,p2,p3]=F.p,iw=im.naturalWidth,ih=im.naturalHeight,cr=F.img.crop||[0,0,1,1];
     const at=(u,v)=>{const lerp=(a,b,t)=>a.map((x,i)=>x+(b[i]-x)*t),top=lerp(p0,p1,u),bot=lerp(p3,p2,u),q=cam(lerp(top,bot,v));return q[2]<NEAR?null:scr(q);};
     for(let i=0;i<N;i++)for(let j=0;j<N;j++){const A=[i/N,j/N],B=[(i+1)/N,j/N],Cc=[(i+1)/N,(j+1)/N],D=[i/N,(j+1)/N];
-      const s=q=>[q[0]*iw,q[1]*ih],P=[A,B,Cc,D].map(q=>at(q[0],q[1]));if(P.some(x=>!x))continue;
+      const s=q=>[(cr[0]+(cr[2]-cr[0])*q[0])*iw,(cr[1]+(cr[3]-cr[1])*q[1])*ih],P=[A,B,Cc,D].map(q=>at(q[0],q[1]));if(P.some(x=>!x))continue;
       tri(im,iw,ih,[s(A),s(B),s(Cc)],[P[0],P[1],P[2]]);tri(im,iw,ih,[s(A),s(Cc),s(D)],[P[0],P[2],P[3]]);}}
   const ease=t=>t<.5?4*t*t*t:1-Math.pow(-2*t+2,3)/2;
   function frame(now){
@@ -677,7 +711,7 @@ function drawRoom(w){
   const wrap=document.createElement("div");wrap.className="room3d";
   const cv=document.createElement("canvas");cv.setAttribute("role","img");cv.setAttribute("aria-label",w.label+", drawn in perspective with a projector");
   const btn=document.createElement("button");btn.className="play";btn.type="button";btn.textContent="Play";
-  const ctl=document.createElement("div");ctl.className="ctl";const sb=KS.map((k,i)=>{const b=document.createElement("button");b.type="button";b.textContent=`${k} ${C[k].t} ${C[k].m}`;b.addEventListener("click",()=>pickStill(i));return b;});
+  const ctl=document.createElement("div");ctl.className="ctl";const sb=KS.map((k,i)=>{const b=document.createElement("button");b.type="button";b.textContent=`${C[k].t}, ${C[k].m}`;b.addEventListener("click",()=>pickStill(i));return b;});
   ctl.append(btn,...sb);const cyc=document.createElement("p");cyc.className="n";cyc.textContent="Continuous cycle, 51:50";
   wrap.append(cv,ctl,cyc);
   const g=cv.getContext("2d"),dpr=Math.min(2,window.devicePixelRatio||1);
@@ -781,7 +815,7 @@ function drawCourt(w){
   const wrap=document.createElement("div");wrap.className="room3d";
   const cv=document.createElement("canvas");cv.setAttribute("role","img");cv.setAttribute("aria-label","The courtyard drawn in perspective, with the work at its centre");
   const ctl=document.createElement("div");ctl.className="ctl";
-  ctl.innerHTML=`<a href="#o-53">53 ${esc(C[53].a)}, Evicted</a><a href="#o-p-dundas">Dundas Square</a><a href="#o-p-model">Model for a Public Space</a>`;
+  ctl.innerHTML=`<a href="#o-53">${esc(C[53].a)}, Evicted</a><a href="#o-p-dundas">Dundas Square</a><a href="#o-p-model">Model for a Public Space</a>`;
   wrap.append(cv,ctl);
   const g=cv.getContext("2d"),dpr=Math.min(2,window.devicePixelRatio||1);let W=0,H=0;
   const size=()=>{const r=cv.getBoundingClientRect();W=r.width;H=r.height;cv.width=W*dpr;cv.height=H*dpr;};
@@ -897,8 +931,8 @@ function openObject(k){
 }
 /* the checklist, room by room */
 const R=(a,b)=>Array.from({length:b-a+1},(_,i)=>a+i);
-const GROUPS=[["106",[...R(1,26)]],["105",[...R(27,40),"41a","41b","41c","41d",...R(42,55)]],["104",R(56,61)],
-  ["103",[62,63,64,"24b","p-girouard","p-contact","p-swept","p-anderson","p-notebook"]],["102",["p-suh",65,66]],["133",[67,68]],["Courtyard",["p-blackwell"]]];
+const GROUPS=[["106",[...R(1,24),26]],["105",[...R(27,40),"41a","41b","41c","41d",...R(42,55)]],["104",R(56,61)],
+  ["103",[62,63,64,"64b","24b","p-girouard","p-contact","p-swept","p-anderson","p-notebook"]],["102",["p-suh",65,66]],["133",[67,68]],["Courtyard",["p-blackwell"]]];
 function openList(){
   stop();current=null;picks=[];tombstone(null);prevView="checklist";lastKey=null;
   body.innerHTML=GROUPS.map(([g,ks])=>`<section class="grp"><h2>${g}</h2><div class="list">${ks.map(k=>{const c=C[k];
